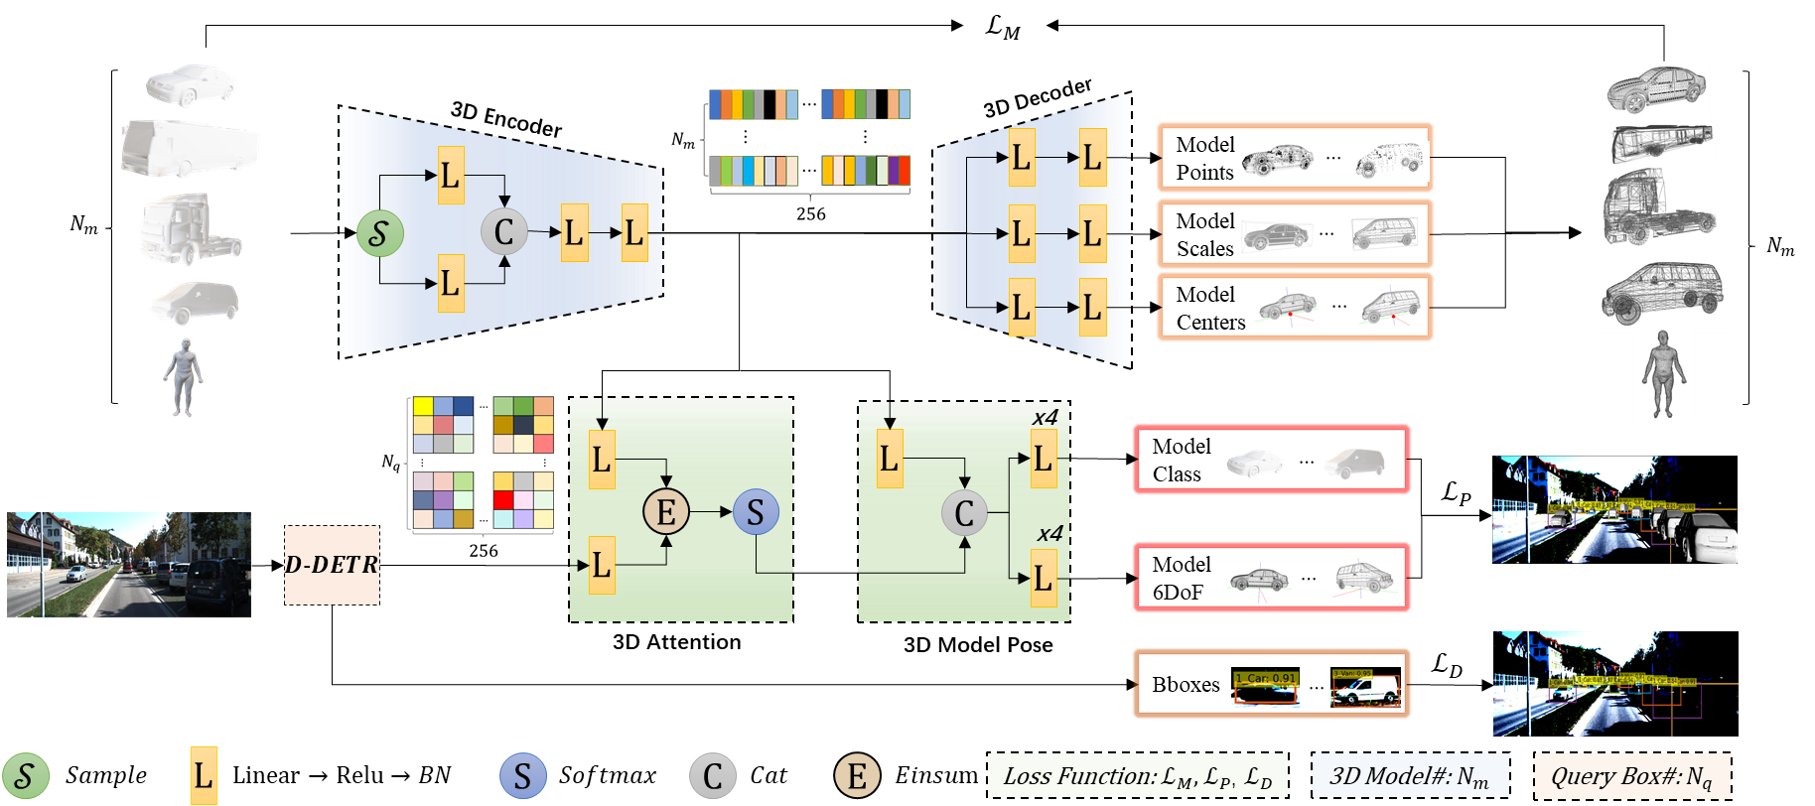
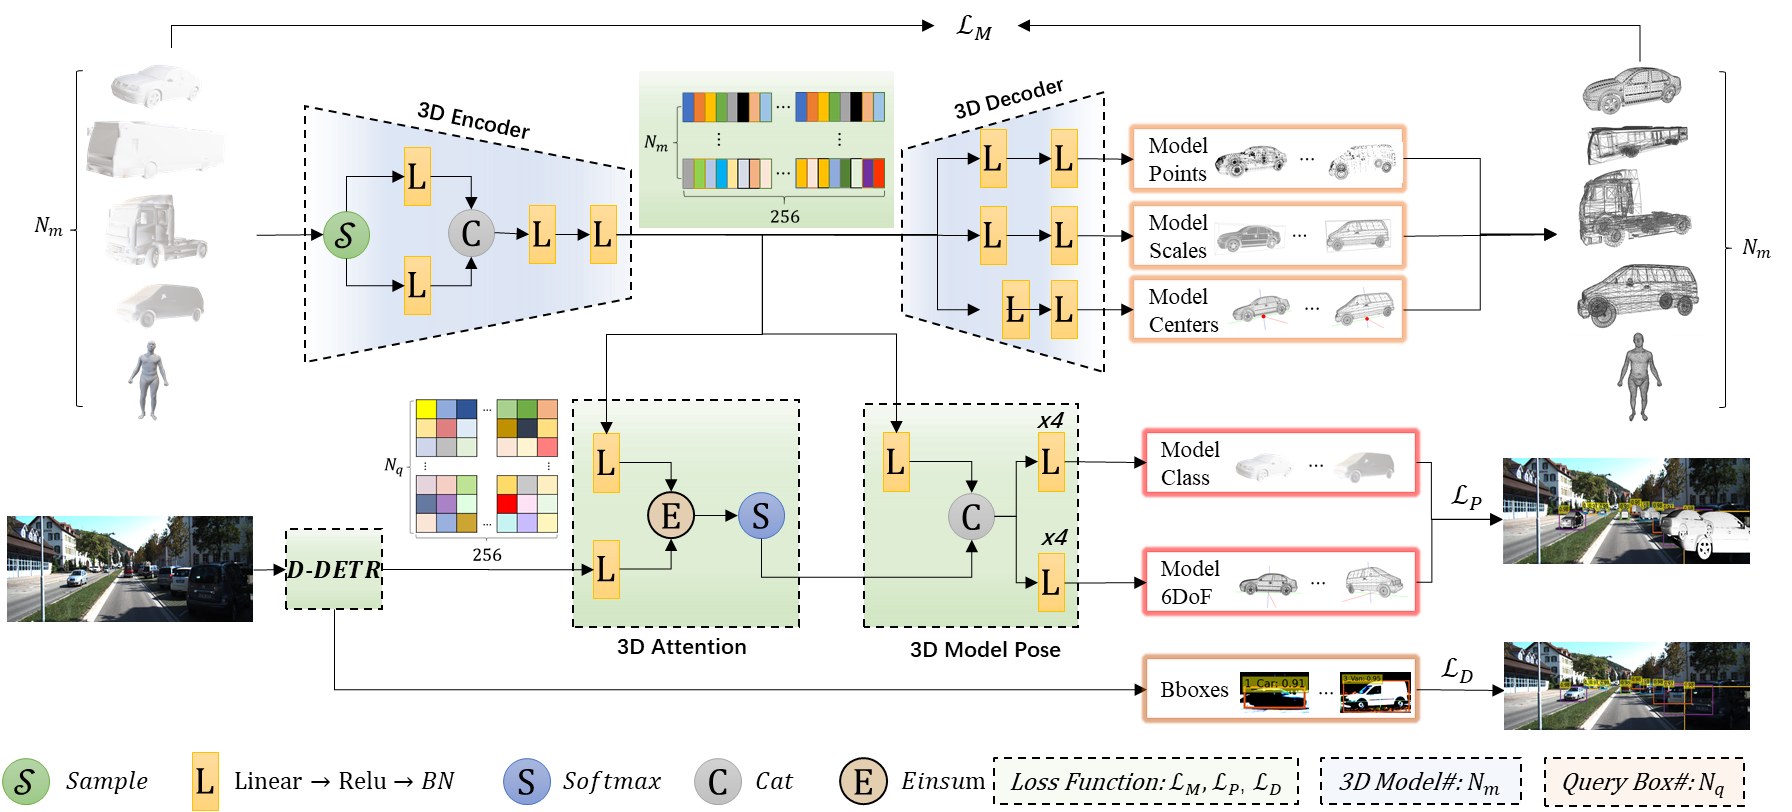
update README

diff --git a/README.md b/README.md
@@ -2,6 +2,8 @@
 
 We introduce the **S**imultaneous **M**ultiple **O**bject detection and **P**ose **E**stimation **N**etwork (**SMOPE-Net**) that performs multi-target detection and pose estimation tasks in an end-to-end manner. SMOPE-Net extracts the object model features and fuses the model features with the image features to infer the object categories, 2-D detection boxes, poses, and visibility. We perform experiments and comparisons to existing methods on multiple datasets including the new KITTI-3D dataset and the existing LineMod-O datasets. And our method achieves better than existing methods forpose estimation on both datasets.
 
+Inference is performed on a single RGB image using only part of the network within the <font color = "yellowgreen">green</font>  background. The learned  $N_m \times 256$ embeddings are used and the  3D models/Endcoder/Decoder are no longer required.}
+
 ------
 
 - [SMOPE-Net](#smope-net)
@@ -12,10 +14,10 @@ We introduce the **S**imultaneous **M**ultiple **O**bject detection and **P**ose
     - [Requirements](#requirements)
     - [Compiling CUDA operators](#cuda)
   - [Preparation](#preparation)
-  - [KITTI-3D](#kitti-3d)
+  - [KITTI-6DoF](#kitti-6dof)
     - [Test](#test)
     - [Train](#train)
-  - [LineMod-O](#linemod-o)
+  - [LineMod](#linemod)
     - [Test](#test-1)
     - [Train](#train-1)
   - [Citation](#citation)
@@ -26,15 +28,15 @@ We introduce the **S**imultaneous **M**ultiple **O**bject detection and **P**ose
 
 ## Results
 
-> SMOPE-Net on KITTI-3D dataset 
+> SMOPE-Net on KITTI-6DoF dataset 
 
-![](images/KITTI3D-results.png)
+![](images/KITTI-6DoF-results.png)
 
-> Comparison results on KITTI-3D dataset
+> Comparison results on KITTI-6DoF dataset
 
 ![](images/Comparison-result.png)
 
-> SMOPE-Net on LineMod-O dataset
+> SMOPE-Net on LineMod dataset
 
 ![](./images/LineMod-results.png)
 
@@ -42,7 +44,7 @@ We introduce the **S**imultaneous **M**ultiple **O**bject detection and **P**ose
 
 ## SMOPE-Net
 
-Schematics of end-to-end trainable SMOPE-Net: The network expects images and $N_m$ 3D object models as input. The Deformable-DETR (D-DETR) block provides a 256-dimensional feature vector for each of the <img src="https://latex.codecogs.com/svg.image?N_q"/> queries. It also provides detected bounding boxes (Bboxes) for the input image under the loss <img src="https://latex.codecogs.com/svg.image?\mathcal{L}_{D} "/>. A 3D Encoder learns a 256-dimensional latent space from the 3D models. The features of <img src="https://latex.codecogs.com/svg.image?{N}_{m} "/> models in this space are used by the 3D Decoder to estimate model points, scales and centers to reconstruct the <img src="https://latex.codecogs.com/svg.image?{N}_{m}"/> models under the loss <img src="https://latex.codecogs.com/svg.image?\mathcal{L}_{M}"/>. The <img src="https://latex.codecogs.com/svg.image?N_m \times 256"/> latent features are also used by the 3D Attention module to compute attention maps for the queries, and 3D Model Pose module to subsequently predict model class and object 6DoF pose estimates. Both components are used for computing the <img src="https://latex.codecogs.com/svg.image?\mathcal{L}_{p}"/> loss.
+Schematics of end-to-end trainable SMOPE-Net: The network expects images and $N_m$ 3D object models as input. The Deformable-DETR (D-DETR) block provides a 256-dimensional feature vector for each of the <img src="https://latex.codecogs.com/svg.image?N_q"/> queries. It also provides detected bounding boxes (Bboxes) for the input image under the loss <img src="https://latex.codecogs.com/svg.image?\mathcal{L}_{D} "/>. A 3D Encoder learns a 256-dimensional latent space from the 3D models. The features of <img src="https://latex.codecogs.com/svg.image?{N}_{m} "/> models in this space are used by the 3D Decoder to estimate model points, scales and centers to reconstruct the <img src="https://latex.codecogs.com/svg.image?{N}_{m}"/> models under the loss <img src="https://latex.codecogs.com/svg.image?\mathcal{L}_{M}"/>. The <img src="https://latex.codecogs.com/svg.image?N_m \times 256"/> latent features are also used by the 3D Attention module to compute attention maps for the queries, and 3D Model Pose module to subsequently predict model class and object 6DoF pose estimates. Both components are used for computing the <img src="https://latex.codecogs.com/svg.image?\mathcal{L}_{p}"/> loss. Inference is performed on a single RGB image using only part of the network within the <font color="yellowgreen">green</font>  background. The learned  <img src="https://latex.codecogs.com/svg.image?N_m \times 256"/> embeddings are used and the  3D models/Endcoder/Decoder are no longer required.
 
 ![framework](./images/SMOPE.png)
 
@@ -107,7 +109,7 @@ sh ./make.sh
   ```
 
 
-## KITTI-3D
+## KITTI-6DoF
 
 - Download the dataset from [here](https://github.com/CongliangLi/LabelImg3D/#Dateset).
 
@@ -187,7 +189,7 @@ python creat_dateset.py
   python main.py
   ```
 
-## LineMod-O
+## LineMod
 
 - Download the training and testing dataset from [here](https://drive.google.com/file/d/182mXo1vnTNaXNa-zFJzRYv64BBqoWirD/view?usp=sharing)
 
